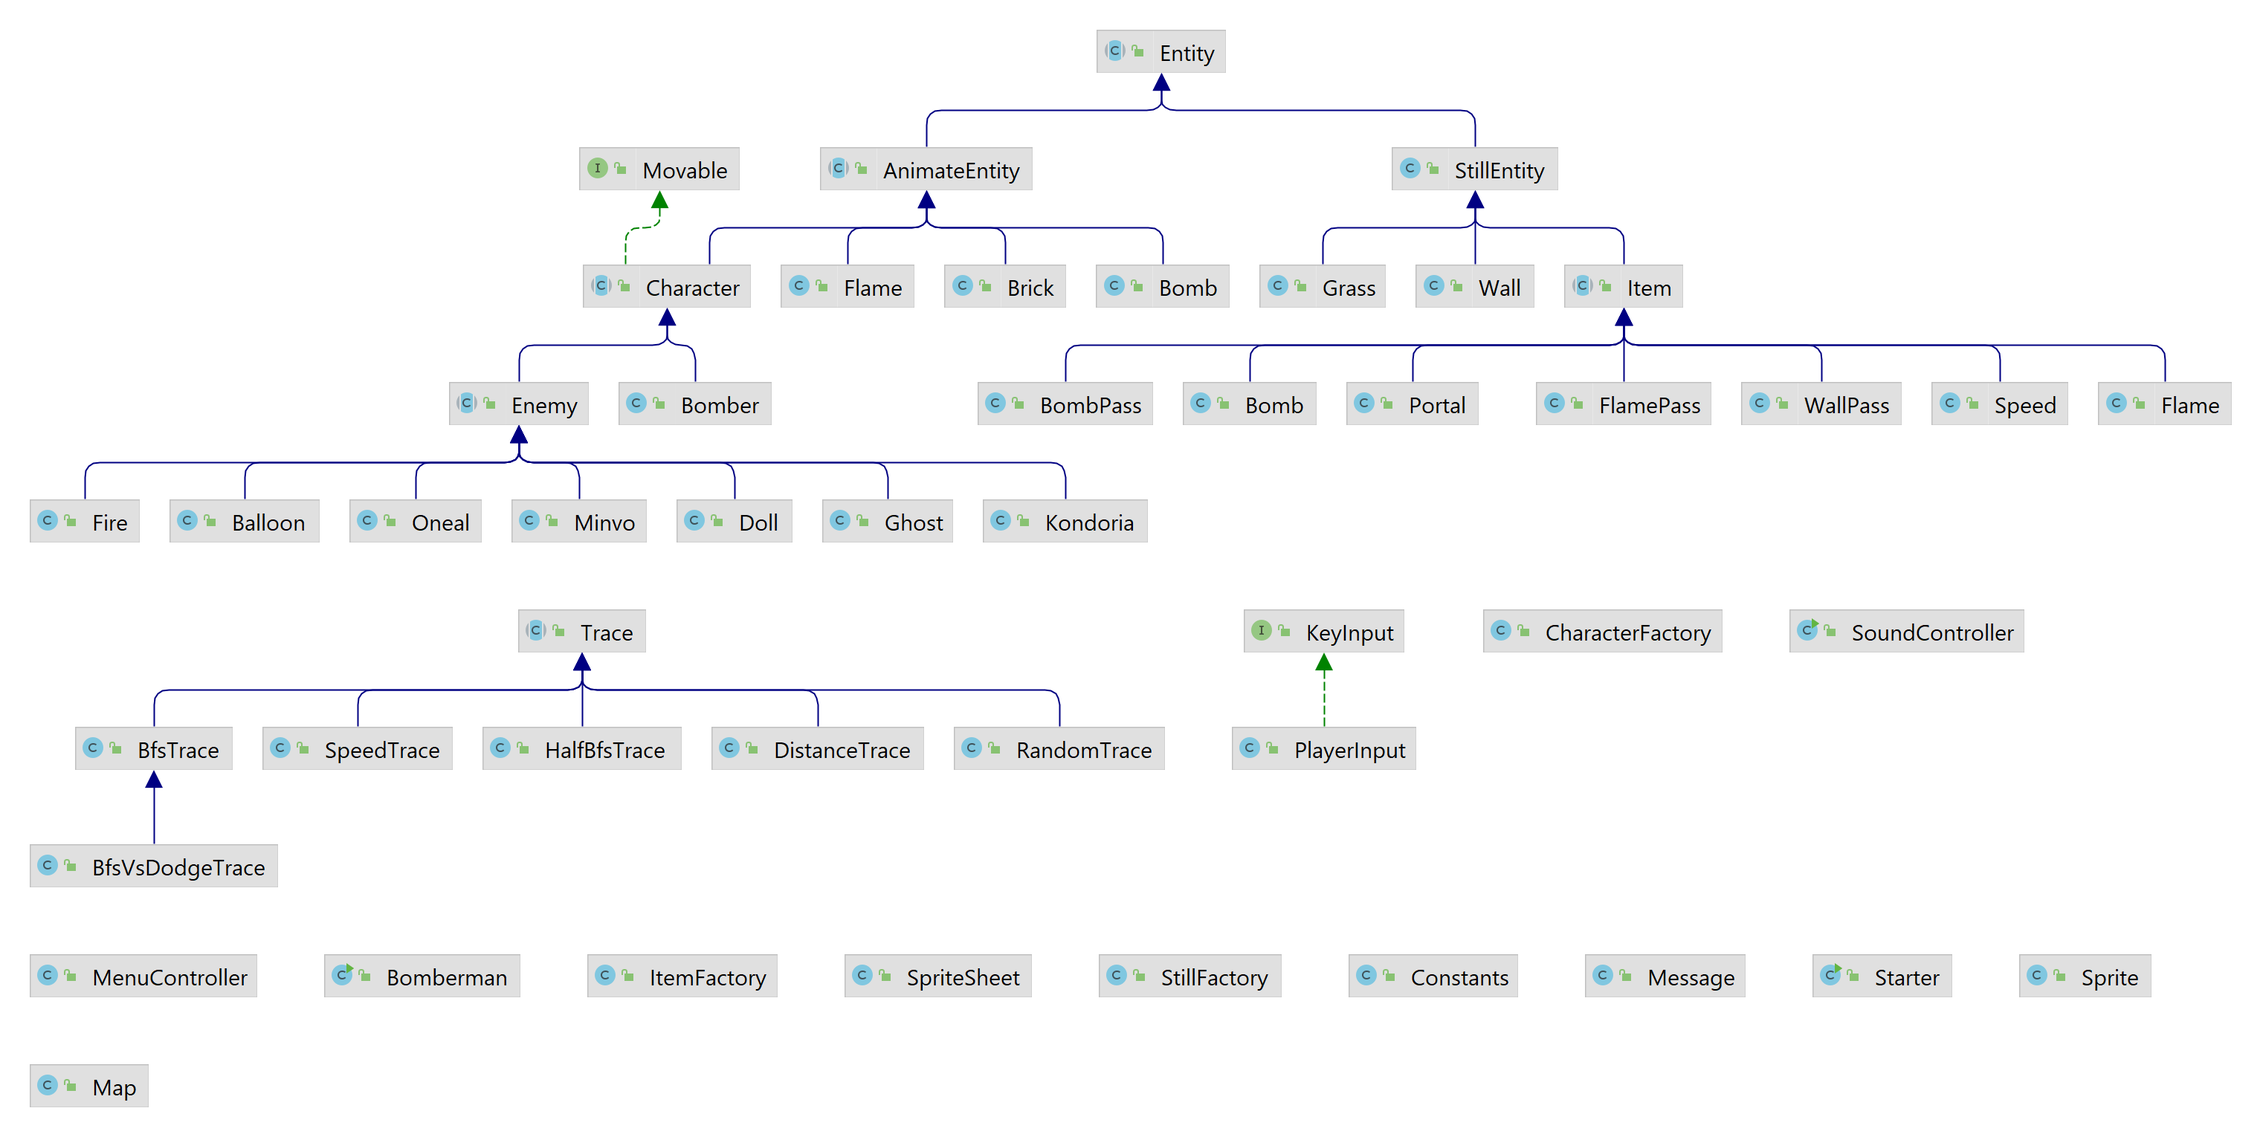
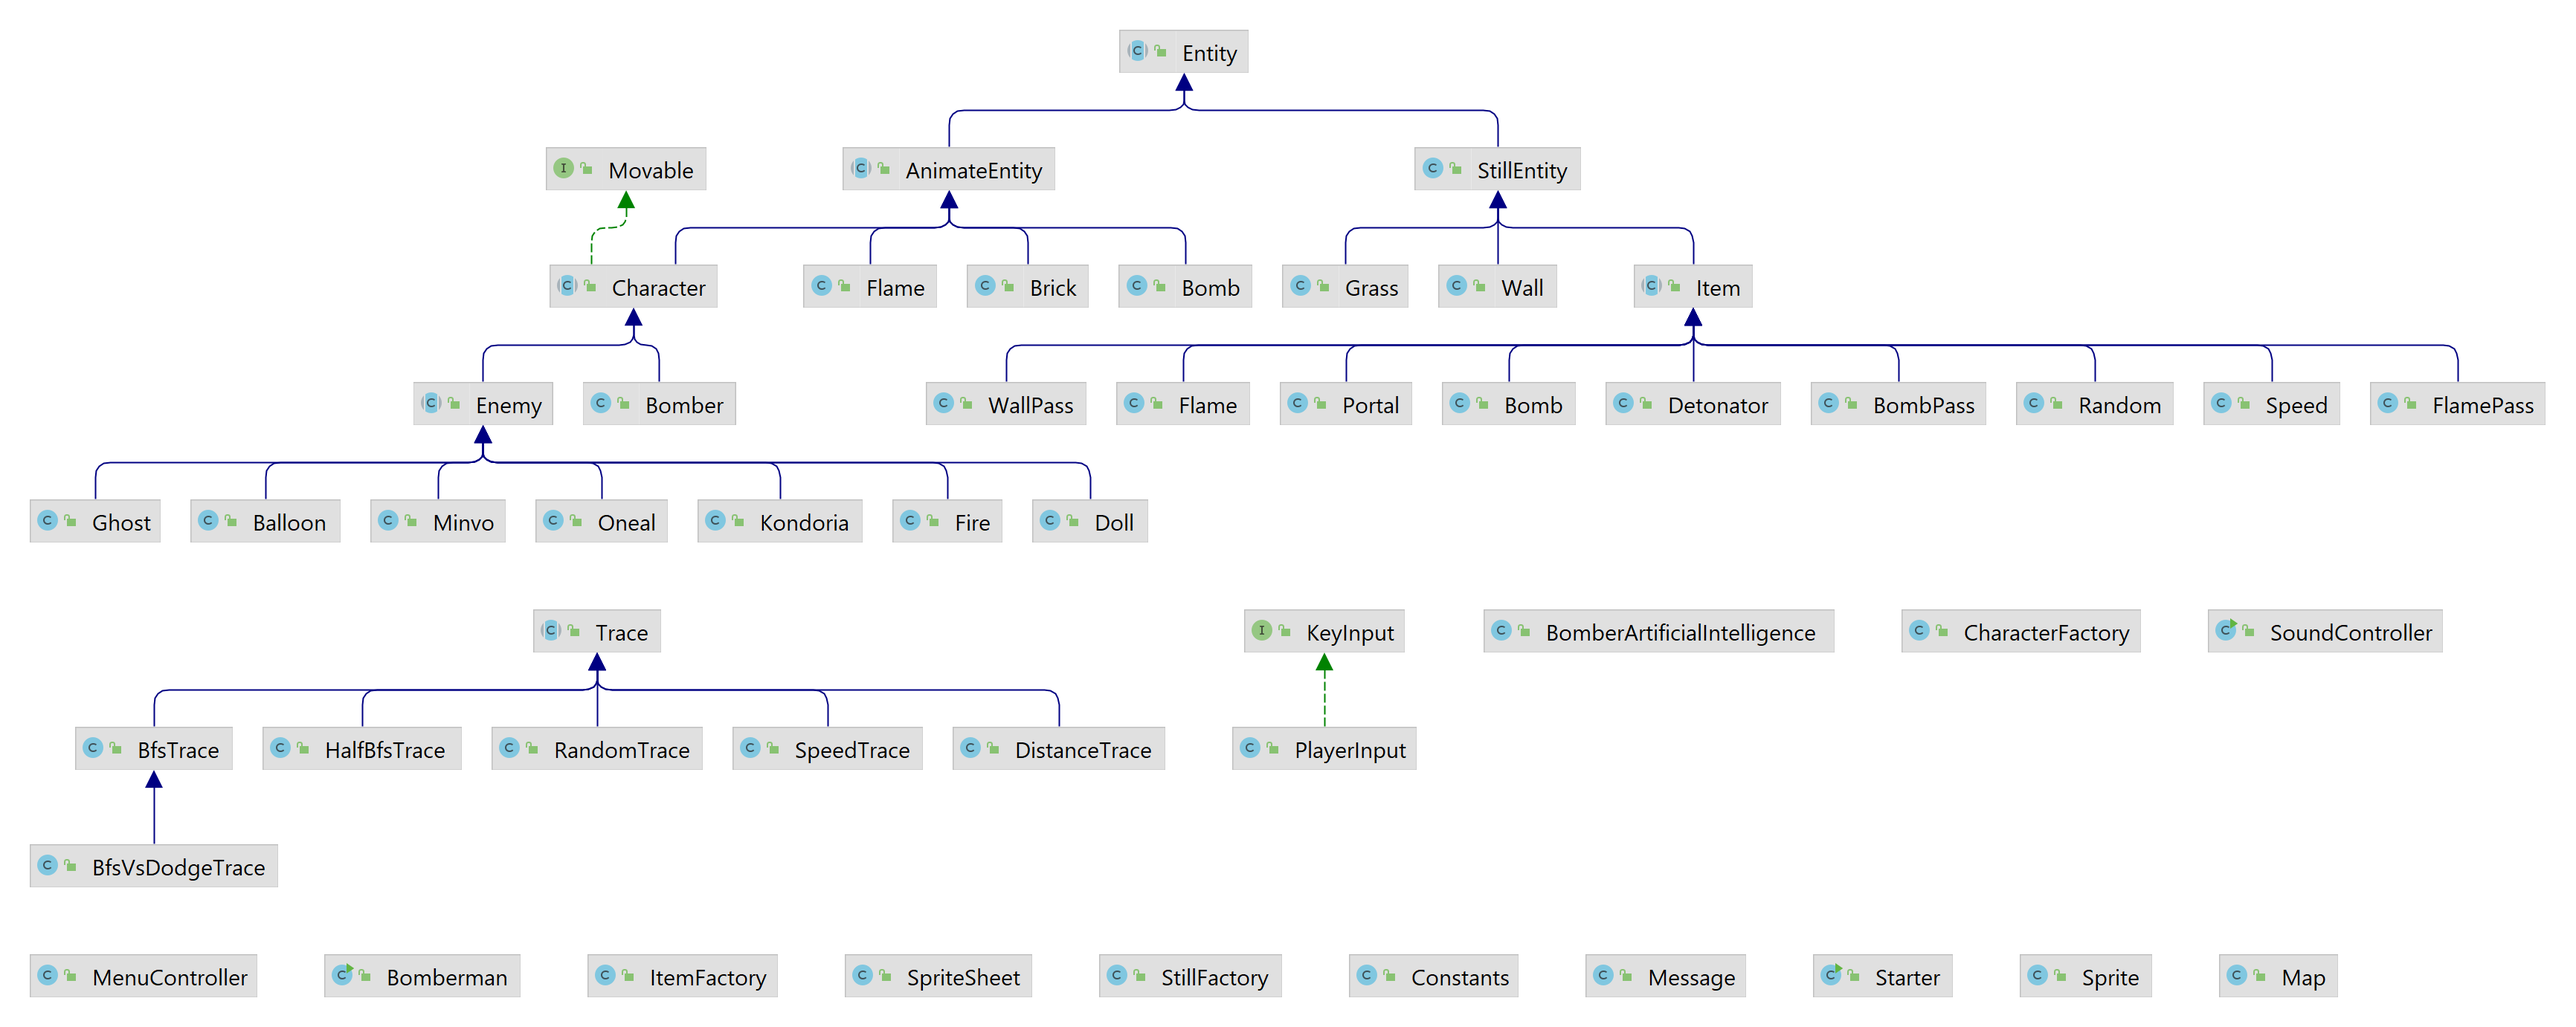
done game

Changed region(s): [[0.0, 0.0, 0.9987, 0.7779], [0.0, 0.809, 0.9675, 0.9957]]

diff --git a/src/main/java/Entities/Still/Item/Random.java b/src/main/java/Entities/Still/Item/Random.java
@@ -1,0 +1,33 @@
+package Entities.Still.Item;
+
+import Entities.Animate.Bomb;
+import Entities.Animate.Character.Bomber;
+import Graphics.Sprite;
+
+public class Random extends Item {
+
+    public Random(int x, int y, Sprite sprite) {
+        super(x, y, sprite);
+    }
+
+    @Override
+    public void effect(Bomber bomber) {
+        int rand = new java.util.Random().nextInt(8);
+        switch (rand) {
+            case 0 -> bomber.setMaxBombs(bomber.getMaxBombs() + 1);
+            case 1 -> bomber.setLengthFlame(bomber.getLengthFlame() + 1);
+            case 2 -> bomber.setSpeed(bomber.getSpeed() + 1);
+            case 3 -> bomber.setWallPass(true);
+            case 4 -> bomber.setLife(bomber.getLife() + 1);
+            case 5 -> bomber.setBombPass(true);
+            case 6 -> bomber.setFlamePass(true);
+            case 7 -> {
+                if (bomber.getLife() > 1) {
+                    bomber.setLife(bomber.getLife() - 1);
+                }
+            }
+        }
+
+        destroy();
+    }
+}

diff --git a/src/main/java/Graphics/Sprite.java b/src/main/java/Graphics/Sprite.java
@@ -302,8 +302,10 @@ public class Sprite {
     public static Sprite FLAME_ITEM = new Sprite(DEFAULT_SIZE, 1, 10, SpriteSheet.tiles, 16, 16);
     public static Sprite SPEED_ITEM = new Sprite(DEFAULT_SIZE, 2, 10, SpriteSheet.tiles, 16, 16);
     public static Sprite WALL_PASS_ITEM = new Sprite(DEFAULT_SIZE, 3, 10, SpriteSheet.tiles, 16, 16);
+    public static Sprite DETONATOR_ITEM = new Sprite(DEFAULT_SIZE,4,10,SpriteSheet.tiles,16,16);
     public static Sprite BOMB_PASS_ITEM = new Sprite(DEFAULT_SIZE, 5, 10, SpriteSheet.tiles, 16, 16);
     public static Sprite FLAME_PASS_ITEM = new Sprite(DEFAULT_SIZE, 6, 10, SpriteSheet.tiles, 16, 16);
+    public static Sprite RANDOM_ITEM = new Sprite(DEFAULT_SIZE,7,10,SpriteSheet.tiles,16,16);
     public Sprite(int size, int x, int y, SpriteSheet sheet, int rw, int rh) {
         SIZE = size;
         _pixels = new int[SIZE * SIZE];

diff --git a/src/main/java/Factory/ItemFactory.java b/src/main/java/Factory/ItemFactory.java
@@ -10,10 +10,12 @@ public class ItemFactory {
             case 'b' -> new Bomb(i,j, Sprite.BOMB_ITEM);
             case 's' -> new Speed(i,j,Sprite.SPEED_ITEM);
             case 'f' -> new Flame(i,j,Sprite.FLAME_ITEM);
-            case 'x' -> new Portal(i,j,Sprite.PORTAL);
             case 'w' -> new WallPass(i,j, Sprite.WALL_PASS_ITEM);
+            case 'd' -> new Detonator(i,j,Sprite.DETONATOR_ITEM);
             case 'l' -> new BombPass(i,j,Sprite.BOMB_PASS_ITEM);
             case 'k' -> new FlamePass(i,j, Sprite.FLAME_PASS_ITEM);
+            case 'r' -> new Random(i,j,Sprite.RANDOM_ITEM);
+            case 'x' -> new Portal(i,j,Sprite.PORTAL);
             default -> {}
         };
     }

diff --git a/src/main/java/Entities/Still/Item/Detonator.java b/src/main/java/Entities/Still/Item/Detonator.java
@@ -1,0 +1,16 @@
+package Entities.Still.Item;
+
+import Entities.Animate.Character.Bomber;
+import Graphics.Sprite;
+
+public class Detonator extends Item{
+    public Detonator(int x, int y, Sprite sprite) {
+        super(x, y, sprite);
+    }
+
+    @Override
+    public void effect(Bomber bomber) {
+        bomber.setLife(bomber.getLife()+1);
+        destroy();
+    }
+}

diff --git a/README.md b/README.md
@@ -40,7 +40,7 @@ Enemy,
 - Phát triển thuật toán tìm đường cho các enemy - xử dụng thuật toán [BFS](https://www.geeksforgeeks.org/breadth-first-search-or-bfs-for-a-graph/)
 - Phát trển thêm 5 loại quái vật
   + ![Oneal](src/main/resources/sprites/oneal_right1.png ) Oneal, nếu đi vào bán kính lãnh địa của nó, 
-  nó sẽ đuổi theo bạn ([demo](https://drive.google.com/file/d/1_kiINtl6rdGVYV6d2ehMcS08AP1hpQfH/view?usp=sharing))
+  nó sẽ đuổi theo bạn ([Demo](https://drive.google.com/file/d/1_kiINtl6rdGVYV6d2ehMcS08AP1hpQfH/view?usp=sharing))
   + ![Doll](src/main/resources/sprites/doll_right1.png) Doll, 
   nhanh khi nó ngửi thấy người chơi
   và tìm đến chỗ người chơi, nếu không nó sẽ đi chậm ([Demo](https://drive.google.com/file/d/1n1DDXxa5AT8GyLaHpiY1S0y1q6r74Hcq/view?usp=sharing))
@@ -49,7 +49,11 @@ Enemy,
   + ![Ghost](src/main/resources/sprites/ghost.png) Ghost, quái vật này có thể tìm được người chơi, né bomb 
   có thể đi xuyên tường và có thể tàng hình ([Demo](https://drive.google.com/file/d/1ZKlnT9un96Ma9xke8p9ShJ_AaSBMrtf9/view?usp=sharing))
   + ![Minvo](src/main/resources/sprites/minvo_right1.png) Minvo, quái vật này có thể tìm được người chơi, đi xuyên tường, né bomb, và phun lửa ([Demo](https://drive.google.com/file/d/1LZ2rDyPdu02EJU1RcscFNmWuyVyXagog/view?usp=sharing))
-- Phát triển thêm 3 loại Item mới với sức mạnh lớn
+- Phát triển thêm 5 loại Item mới với sức mạnh lớn
   + ![](src/main/resources/sprites/powerup_bombpass.png) giúp người chơi có thể đi xuyên qua bomb khi chưa nổ
   + ![](src/main/resources/sprites/powerup_flamepass.png) giúp người chơi không bị lửa từ bomb nổ thiêu đốt
   + ![](src/main/resources/sprites/powerup_wallpass.png) giúp người chơi đi xuyên qua được các khối gạch ![Brick](src/main/resources/sprites/brick.png)
+  + ![](src/main/resources/sprites/powerup_detonator.png) giúp người chơi thêm 1 mạng nữa
+  + ![](src/main/resources/sprites/random_item.png) là một trong số bất kỳ các item khác hoặc <strong>mất một mạng</strong> 
+  + [Vide demo item](https://drive.google.com/file/d/1NRf4Q5UFmzYrBxczGbWV-gtJew0MWeNu/view?usp=sharing)
+- Phát triển AI tự chơi cho bomber ([Demo](https://drive.google.com/file/d/12o51Ijet0E3-pk56Gvs8-jV1MZ3E1RC-/view?usp=sharing))
